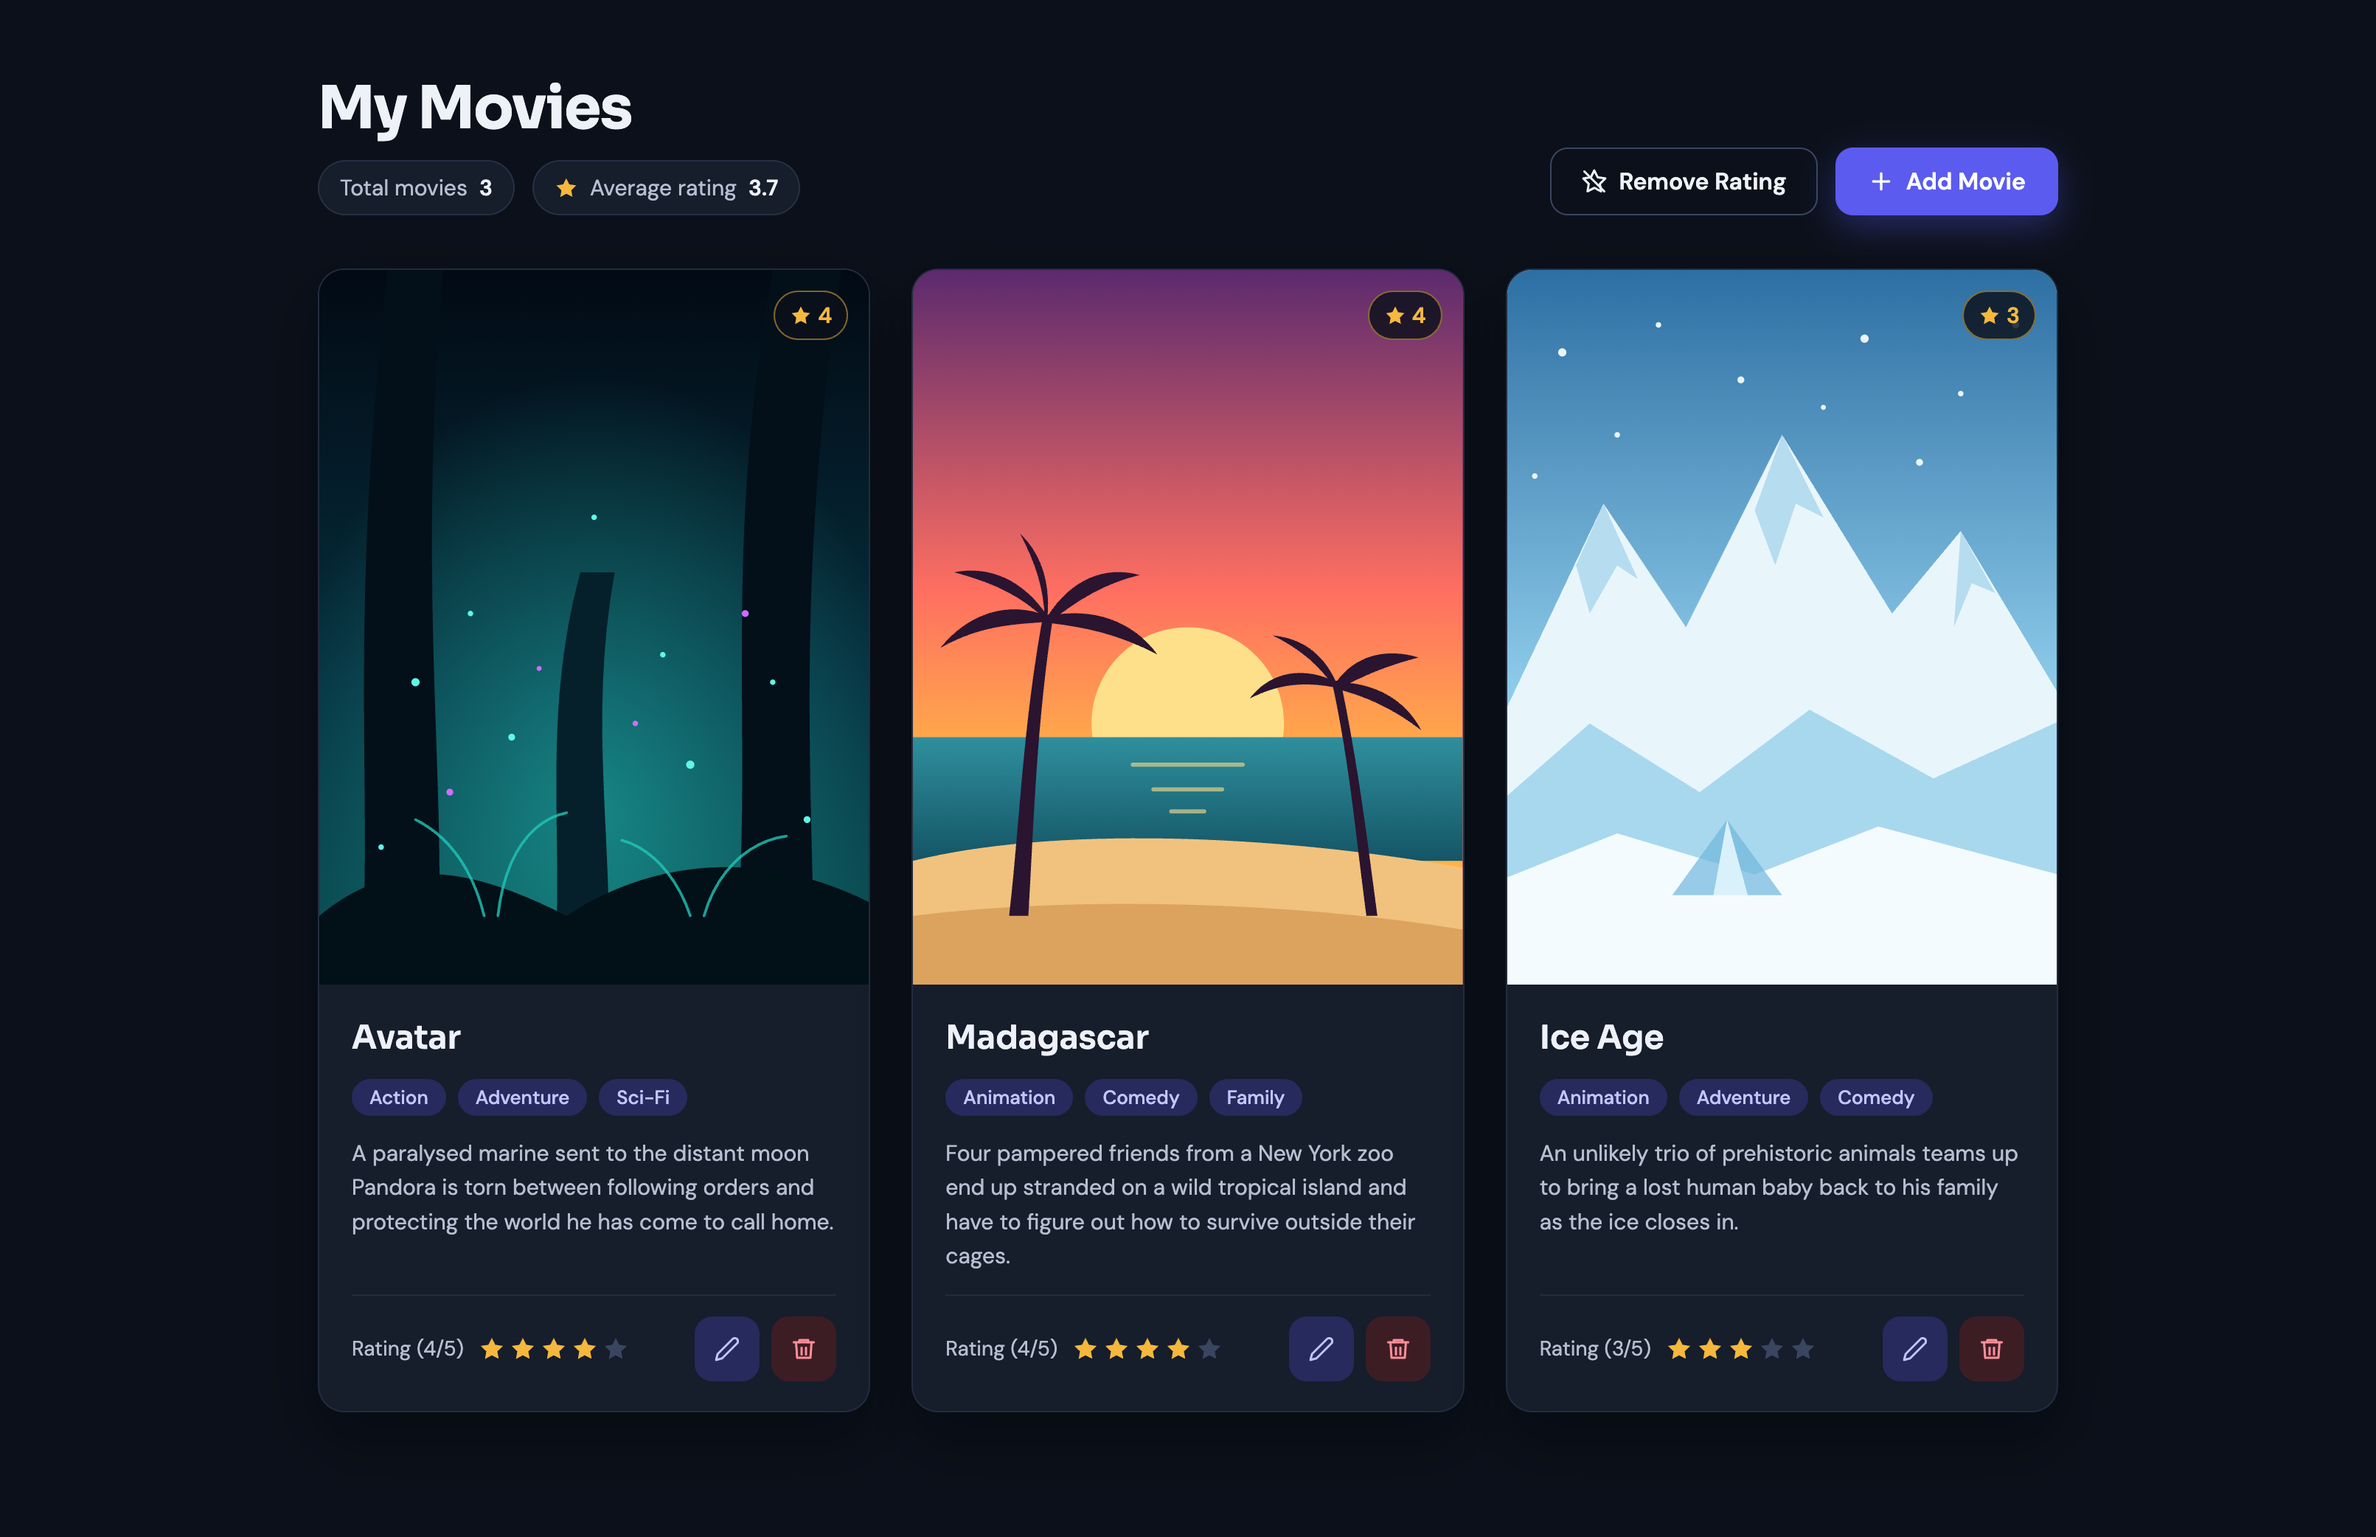
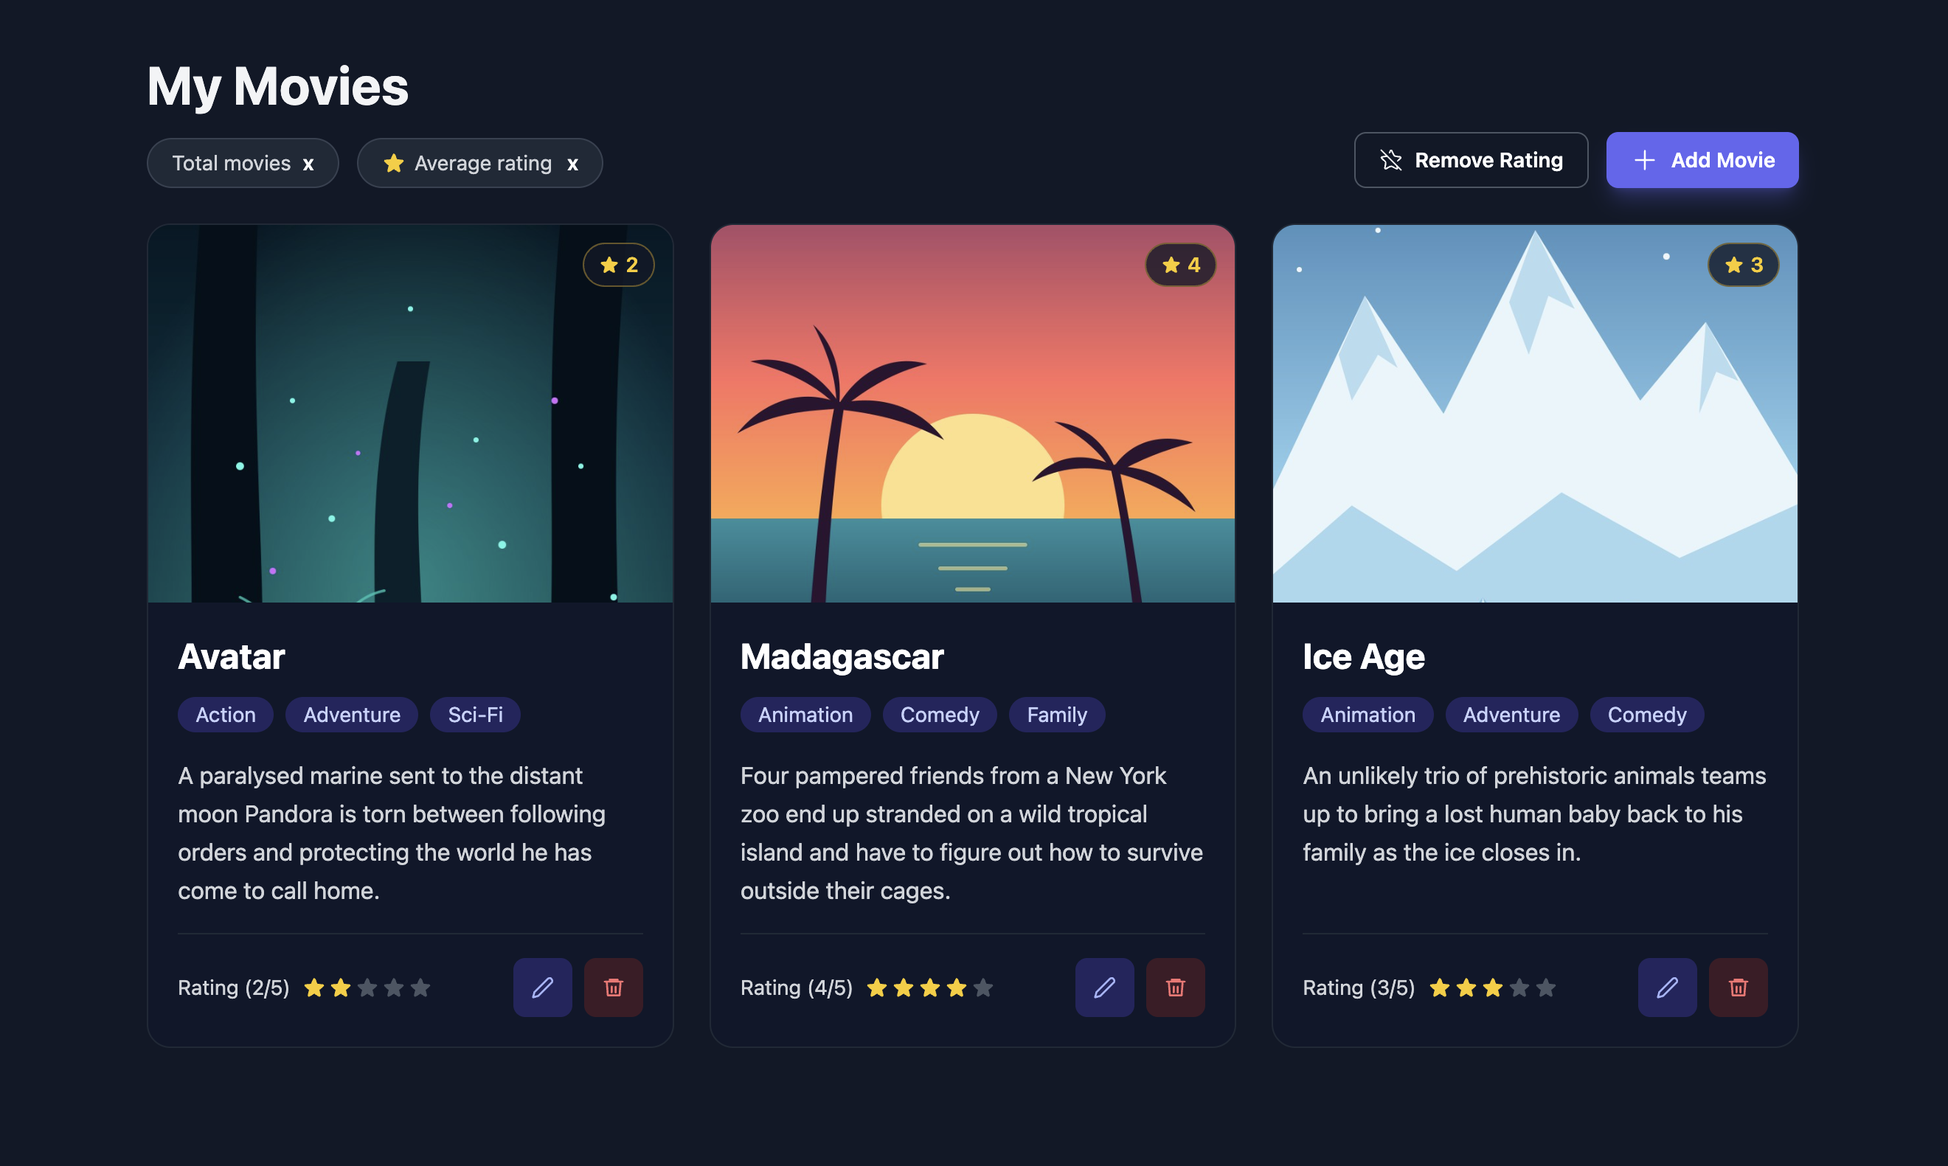
refactor: clean up component scripts and templates for BaseButton, MovieItem, MovieStarRating, and HomePage

diff --git a/src/pages/HomePage.vue b/src/pages/HomePage.vue
@@ -1,3 +1,24 @@
+<script setup lang="ts">
+import {ref} from 'vue';
+import data from '../data.json';
+import {StarOffIcon} from '@lucide/vue';
+import {StarIcon} from '@heroicons/vue/24/solid';
+import {PlusIcon} from '@heroicons/vue/24/outline';
+import MovieItem from '../components/MovieItem.vue';
+import BaseButton from '../components/BaseButton.vue';
+
+type Movie = {
+	id: number;
+	title: string;
+	image: string;
+	genres: string[];
+	description: string;
+	rating: number;
+};
+
+const movies = ref<Movie[]>(data.items);
+</script>
+
 <template>
 	<div class="max-w-6xl px-4 py-10 mx-auto text-gray-100">
 		<div class="flex flex-wrap items-end justify-between gap-4 mb-6">
@@ -48,24 +69,3 @@
 		</div>
 	</div>
 </template>
-
-<script setup lang="ts">
-import {ref} from 'vue';
-import data from '../data.json';
-import {StarOffIcon} from '@lucide/vue';
-import {StarIcon} from '@heroicons/vue/24/solid';
-import {PlusIcon} from '@heroicons/vue/24/outline';
-import MovieItem from '../components/MovieItem.vue';
-import BaseButton from '../components/BaseButton.vue';
-
-type Movie = {
-	id: number;
-	title: string;
-	image: string;
-	genres: string[];
-	description: string;
-	rating: number;
-};
-
-const movies = ref<Movie[]>(data.items);
-</script>

diff --git a/src/components/MovieItem.vue b/src/components/MovieItem.vue
@@ -1,3 +1,21 @@
+<script setup lang="ts">
+import {StarIcon} from '@heroicons/vue/24/solid';
+import MovieStarRating from './MovieStarRating.vue';
+
+export interface Movie {
+	id: number;
+	title: string;
+	image: string;
+	genres: string[];
+	description: string;
+	rating: number;
+}
+
+defineProps<{
+	movie: Movie;
+}>();
+</script>
+
 <template>
 	<article class="flex flex-col overflow-hidden border border-gray-800 rounded-2xl bg-slate-900">
 		<!-- Movie image and rating -->
@@ -5,7 +23,7 @@
 			<img
 				:src="movie.image"
 				:alt="movie.title"
-				class="object-cover w-full h-64"
+				class="object-cover w-full h-60 sm:h-80"
 			/>
 			<MovieStarRating
 				:rating="movie.rating"
@@ -69,21 +87,3 @@
 		</div>
 	</article>
 </template>
-
-<script setup lang="ts">
-import {StarIcon} from '@heroicons/vue/24/solid';
-import MovieStarRating from './MovieStarRating.vue';
-
-export interface Movie {
-	id: number;
-	title: string;
-	image: string;
-	genres: string[];
-	description: string;
-	rating: number;
-}
-
-defineProps<{
-	movie: Movie;
-}>();
-</script>

diff --git a/src/components/BaseButton.vue b/src/components/BaseButton.vue
@@ -1,15 +1,3 @@
-<template>
-	<button
-		:type="type"
-		:class="[
-			'flex items-center gap-2 px-4 py-2 text-sm font-semibold text-white transition rounded-lg focus:outline-none focus-visible:ring-2',
-			variantClasses[variant],
-		]"
-	>
-		<slot />
-	</button>
-</template>
-
 <script setup lang="ts">
 type Variant = 'primary' | 'outline';
 
@@ -29,3 +17,15 @@ const variantClasses: Record<Variant, string> = {
 	outline: 'border border-gray-600 hover:bg-gray-800 focus-visible:ring-indigo-400',
 };
 </script>
+
+<template>
+	<button
+		:type="type"
+		:class="[
+			'flex items-center gap-2 px-4 py-2 text-sm font-semibold text-white transition rounded-lg focus:outline-none focus-visible:ring-2',
+			variantClasses[variant],
+		]"
+	>
+		<slot />
+	</button>
+</template>

diff --git a/src/components/MovieStarRating.vue b/src/components/MovieStarRating.vue
@@ -1,3 +1,14 @@
+<script setup lang="ts">
+import {computed} from 'vue';
+import {StarIcon} from '@heroicons/vue/24/solid';
+
+const props = defineProps<{
+	rating: number;
+}>();
+
+const notRated = computed(() => Boolean(!props.rating));
+</script>
+
 <template>
 	<span
 		:class="[
@@ -9,14 +20,3 @@
 		{{ notRated ? '–' : rating }}
 	</span>
 </template>
-
-<script setup lang="ts">
-import {computed} from 'vue';
-import {StarIcon} from '@heroicons/vue/24/solid';
-
-const props = defineProps<{
-	rating: number;
-}>();
-
-const notRated = computed(() => Boolean(!props.rating));
-</script>
